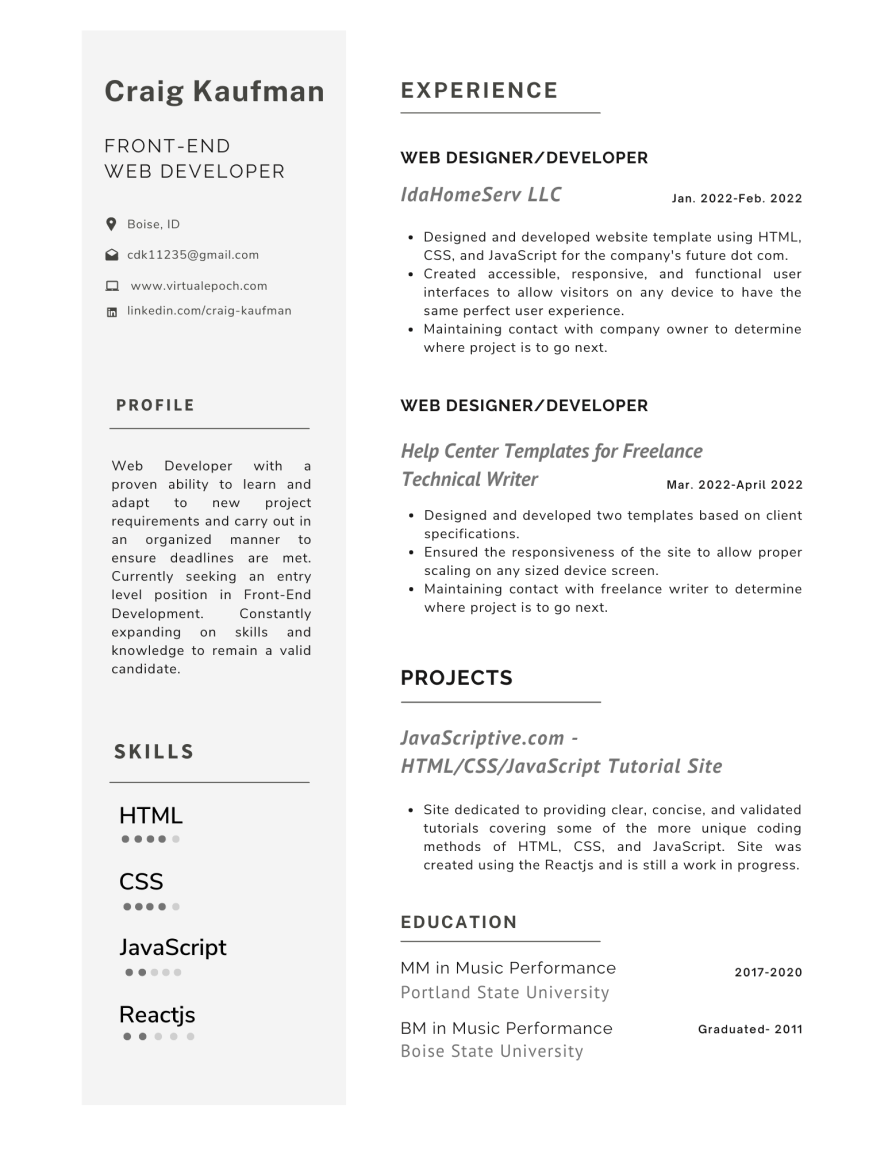
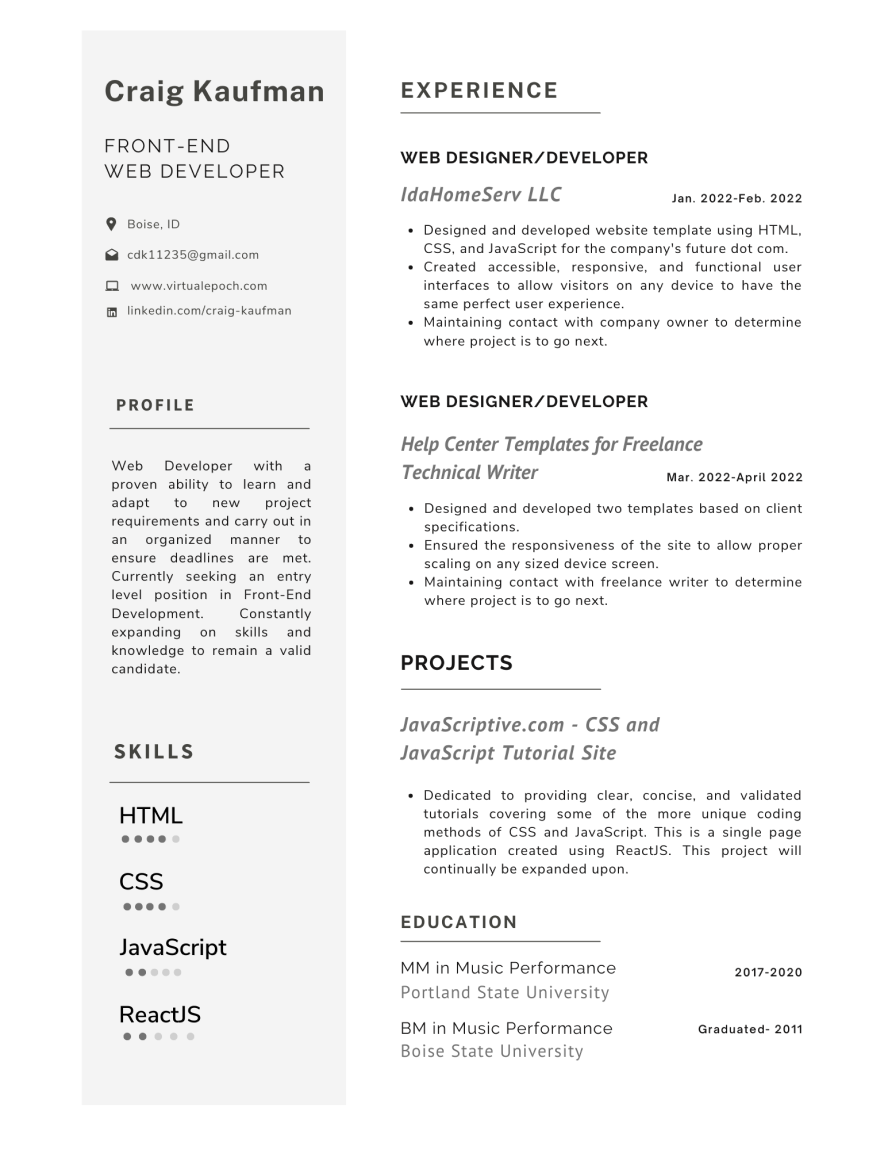
styling update

Changed region(s): [[0.4561, 0.3348, 0.9122, 0.7609], [0.4561, 0.1826, 0.9122, 0.3043]]

diff --git a/src/pages/Projects.js b/src/pages/Projects.js
@@ -15,18 +15,18 @@ export default function Projects() {
       <div className="project-card">
         <h2>www.JavaScriptive.com</h2>
         <div className="project-image-link-container">
-          <img className="project-image-2" src={javascriptive} alt="javascriptive-website"></img>
+          <img className="project-image" src={javascriptive} alt="javascriptive-website"></img>
           <a className="project-link" href="https://javascriptive-app.vercel.app/" target="_blank" rel="noopener noreferrer">
             VISIT
           </a>
         </div>
-        <p>JavaScriptive—a JavaScript tutorial site. This is a work in progress and will eventually be filled with HTML, CSS, and JavaScript tutorials, lessons, and cool coding projects to work along with.</p>
+        <p>JavaScriptive—a JavaScript and CSS tutorial site. This project is a single page application created with ReactJS. It is still being expanded upon.</p>
       </div>
 
       <div className="project-card">
         <h2>Website for Pool Service Company</h2>
         <div className="project-image-link-container">
-          <img className="project-image" src={idahomeserv} alt="idahomeserv website"></img>
+          <img className="project-image project-image-2" src={idahomeserv} alt="idahomeserv website"></img>
           <a className="project-link" href="https://idahomeservpools.vercel.app/" target="_blank" rel="noopener noreferrer">
             VISIT
           </a>
@@ -37,13 +37,13 @@ export default function Projects() {
       <div className="project-card">
         <h2>Templates for Help Center</h2>
         <div className="project-image-link-container">
-          <img className="project-image-2" src={helpcenter} alt="helpcenter website template"></img>
+          <img className="project-image" src={helpcenter} alt="helpcenter website template"></img>
           <a className="project-link" href="https://jacob-help-center.vercel.app/" target="_blank" rel="noopener noreferrer">
             VISIT
           </a>
         </div>
         <div className="project-image-link-container">
-          <img className="project-image-2" src={jaycom} alt="helpcenter website template 2"></img>
+          <img className="project-image" src={jaycom} alt="helpcenter website template 2"></img>
           <a className="project-link" href="https://jaycom.vercel.app/" target="_blank" rel="noopener noreferrer">
             VISIT
           </a>
@@ -55,7 +55,7 @@ export default function Projects() {
         <h2>Retail Site Template for GoGetterz Clothing</h2>
         <div className="project-images-container">
           <div className="project-image-link-container">
-            <img className="project-image-2" src={gogetterz} alt="gogetterz retail site"></img>
+            <img className="project-image" src={gogetterz} alt="gogetterz retail site"></img>
             <a className="project-link" href="https://gogetterz.vercel.app/" target="_blank" rel="noopener noreferrer">
               VISIT
             </a>
@@ -67,7 +67,7 @@ export default function Projects() {
         <h2>Isometric Sprite Video Game</h2>
         <div className="project-images-container">
           <div className="project-image-link-container">
-            <img className="project-image" src={lightskull} alt="light skull video game"></img>
+            <img className="project-image project-image-2" src={lightskull} alt="light skull video game"></img>
             <a className="project-link" href="https://light-skull.vercel.app/" target="_blank" rel="noopener noreferrer">
               VISIT
             </a>

diff --git a/src/pages/Contact.js b/src/pages/Contact.js
@@ -22,7 +22,7 @@ export default function Contact() {
       <h1 className="section-heading">Contact</h1>
       <p className="profile-card">
         <img className="profile-logo" src={veLogo200} alt="site-logo" />
-        Hi, my name is Craig Kaufman. I created this website and the projects. I'm currently looking for a position in Front-End Web Development. I have over three years of experience working with HTML, CSS, and JavaScript. My first experience was back in 2003 when I took an HTML / Styling class in highschool. While that provided a foundation it's really been the last three years where I've grown the most as a web developer. I've now made dozens of web apps and provide pro bono assistance to friends with their own hobby projects. I've made a few projects with Reactjs as well as with the SvelteKit compiler. You can find some of my projects at the GitHub link below.
+        Hi, my name is Craig Kaufman. I created this website and the projects. I'm currently looking for a position in Front-End Web Development. I have over three years of experience working with HTML, CSS, and JavaScript. My first experience was back in 2003 when I took an HTML / Styling class in highschool. While that provided a foundation it's really been the last three years where I've grown the most as a web developer. I've now made dozens of web apps and provide pro bono assistance to friends with their own hobby projects. I've made a few projects with ReactJS as well as with the SvelteKit compiler. You can find some of my projects at the GitHub link below.
       </p>
       <div className="contact-link-row">
         <a className="contact-link github-link" href="https://github.com/virtualepoch">

diff --git a/src/pages/projects.css b/src/pages/projects.css
@@ -3,13 +3,6 @@
   flex-direction: column;
   text-align: center;
 }
-.javascriptive-link {
-  margin: 50px auto;
-  padding: 3px 10px;
-  border: 1px solid rgb(255, 255, 255);
-  border-radius: 20px;
-  background: linear-gradient(to top right, black, rgb(106, 106, 106), black);
-}
 .project-card {
   margin: 33px 0;
   padding: 12px;
@@ -19,27 +12,31 @@
   background: linear-gradient(to top right, black, rgb(124, 124, 124), black, rgb(158, 158, 158));
 }
 .project-card h2 {
-  padding: 20px;
+  width: fit-content;
+  height: fit-content;
+  margin: 10px auto;
+  padding: 10px 30px;
+  background: radial-gradient(ellipse at 50% 50%, rgb(192, 192, 192, 0.5), rgb(192, 192, 192, 0.3), transparent 50%);
 }
 .project-card p {
-  padding: 30px 15px;
+  margin-bottom: 20px;
   line-height: 25px;
 }
 .project-image-link-container {
   width: fit-content;
   height: fit-content;
-  margin: 40px auto;
+  margin: 0 auto;
   display: flex;
   flex-direction: column;
   align-items: center;
 }
 .project-image {
-  width: 300px;
-  border-radius: 5px;
+  width: 100%;
   box-shadow: 0 0 10px 5px black;
 }
 .project-image-2 {
-  width: 100%;
+  width: 300px;
+  border-radius: 5px;
 }
 .project-link {
   width: 100px;
@@ -50,6 +47,5 @@
   display: flex;
   align-items: flex-end;
   justify-content: center;
-  background: rgb(34, 96, 162);
-  /* border: solid yellow; */
+  background: linear-gradient(rgb(0, 255, 255, 0.8), rgb(0, 0, 128, 0.8));
 }

diff --git a/src/pages/zzcommon.css b/src/pages/zzcommon.css
@@ -1,7 +1,8 @@
 .section-heading {
-    width: fit-content;
-    margin: 20px auto;
-    padding: 8px 15px;
-    font-size: clamp(1rem, 3vw, 2rem);
-    border-bottom: 1px solid white;
-  }
+  width: fit-content;
+  margin: 20px auto;
+  padding: 8px 15px;
+  font-size: clamp(1.1rem, 3vw, 1.8rem);
+  border-bottom: 1px solid white;
+  background: linear-gradient(transparent 80%, rgb(255, 255, 255, 0.5));
+}

diff --git a/src/pages/about.css b/src/pages/about.css
@@ -10,9 +10,9 @@
   background: linear-gradient(to right, black, transparent);
   border-radius: 12px;
 }
-.about-content .inquire-statement{
+.about-content .inquire-statement {
   text-align: center;
-  background: linear-gradient(to right,transparent,black,transparent);
+  background: linear-gradient(to right, transparent, black, transparent);
 }
 .pyramid-container {
   max-width: 1200px;
